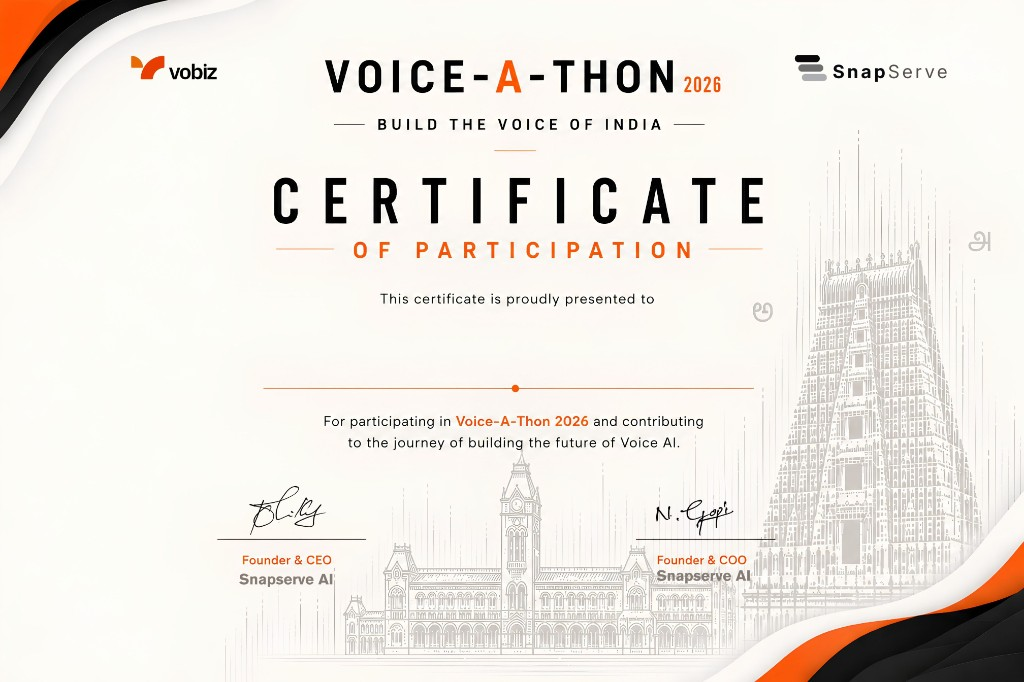
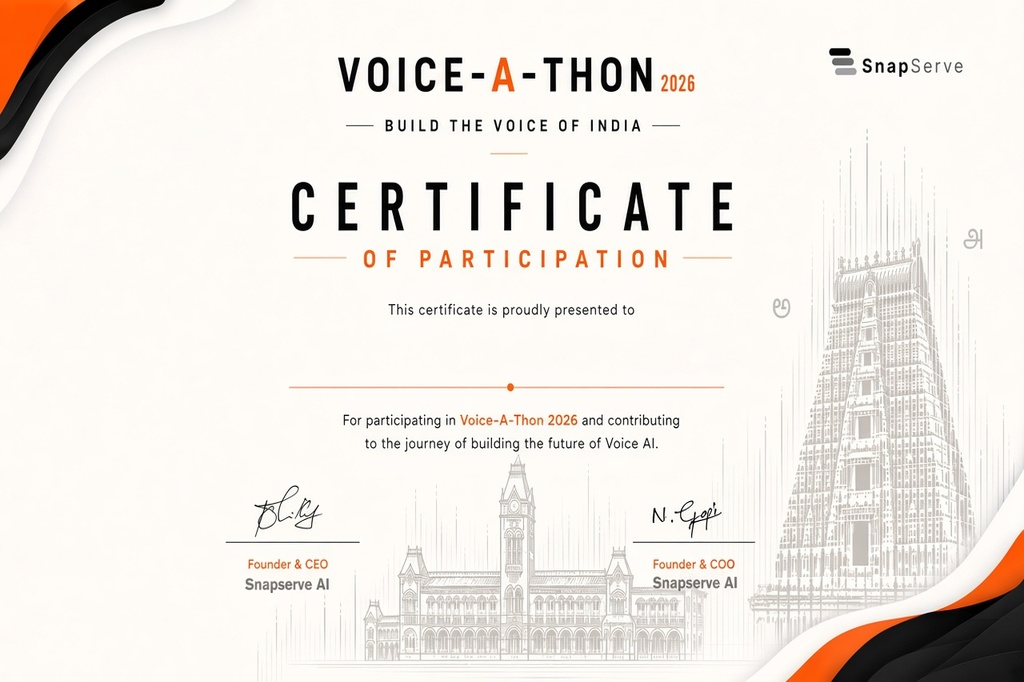
Remove Vobiz branding from the participation certificate template and share text.

diff --git a/apps/web/src/components/participant/ParticipantCertificate.tsx b/apps/web/src/components/participant/ParticipantCertificate.tsx
@@ -121,7 +121,7 @@ export function ParticipantCertificate({
   }
 
   const handleShareLinkedIn = () => {
-    const text = `Honored to receive my Official Certificate of Participation for Voice-A-Thon 2026 — India's Biggest Voice-a-thon (Tamil Nadu Edition).\n\nBuilding Voice AI with SnapServe AI & Vobiz. Team "${teamName}" • Track "${trackName}".\n\n#SnapServe #VoiceAI #VoiceAThon2026`
+    const text = `Honored to receive my Official Certificate of Participation for Voice-A-Thon 2026 — India's Biggest Voice-a-thon (Tamil Nadu Edition).\n\nBuilding Voice AI with SnapServe AI. Team "${teamName}" • Track "${trackName}".\n\n#SnapServe #VoiceAI #VoiceAThon2026`
     navigator.clipboard.writeText(text)
     toast.success('LinkedIn post text copied!')
     window.open('https://www.linkedin.com/feed/', '_blank')
